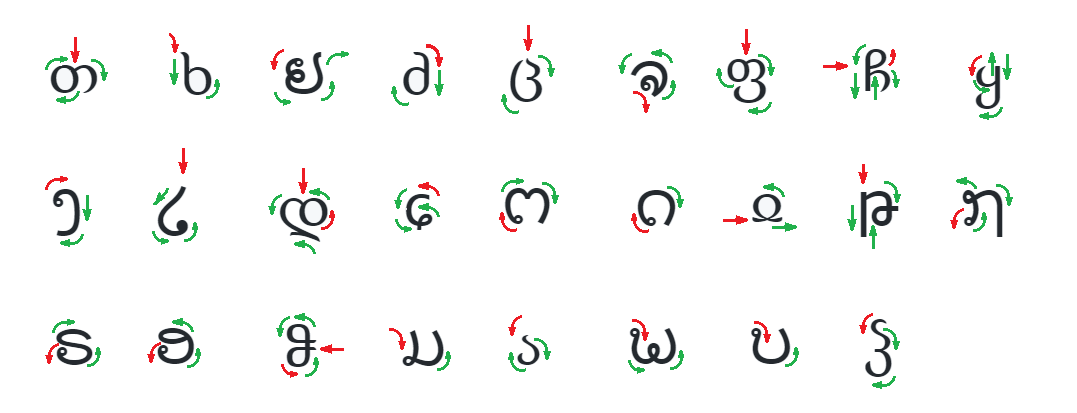
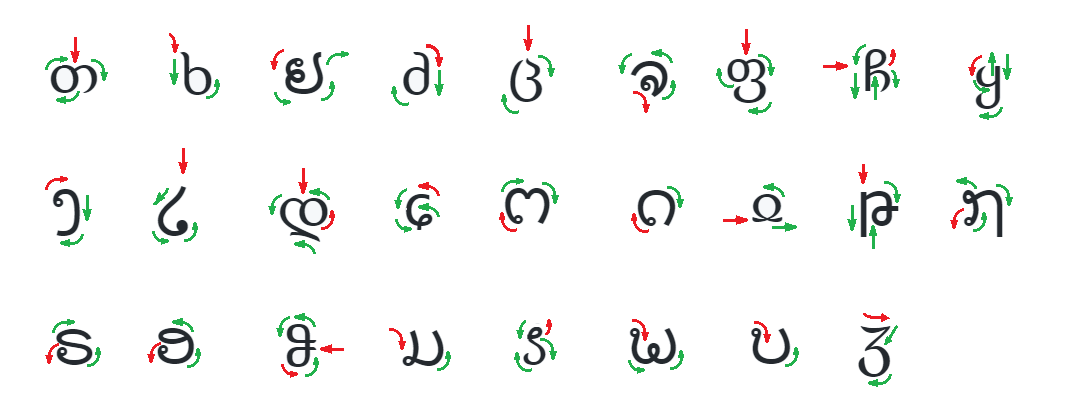
replace z

Changed region(s): [[0.4596, 0.7554, 0.5209, 0.9007], [0.7967, 0.7554, 0.8579, 0.9588]]

diff --git a/script.md b/script.md
@@ -18,7 +18,7 @@ Latin | Maj| IPA  | Latin | Maj | IPA
   j   | ງ  | ʒɨ   | i     | ა   | ɨ
   l   | ໒  | lɨ   | w     | ພ   | uʌ 
   q   | დ  | tʃʌ  | v     | ບ   | vʌ
-  c   | ɕ  | tsʌ  | z     | ჴ   | zʌ        
+  c   | ɕ  | tsʌ  | z     | ჳ   | zʌ        
 
 ## Writing direction
 
@@ -36,10 +36,10 @@ The cost of writing can be calculated using 5 classes:
 ```
 Cost |  Letter
 -----|----------------------------
-  1  |b, d, o, i 
-  2  |a, c, t, e, z, h, y   
-  3  |l, j, s, m, n, u, v     
-  4  |x, p, r, f
+  1  |b, d, o, i, u, v, n
+  2  |a, e, j, l, c  
+  3  |f, r, s, x, m 
+  4  |p, h, y, z, t
   5  |q, g, k, w 
 
 **Tools:**  
